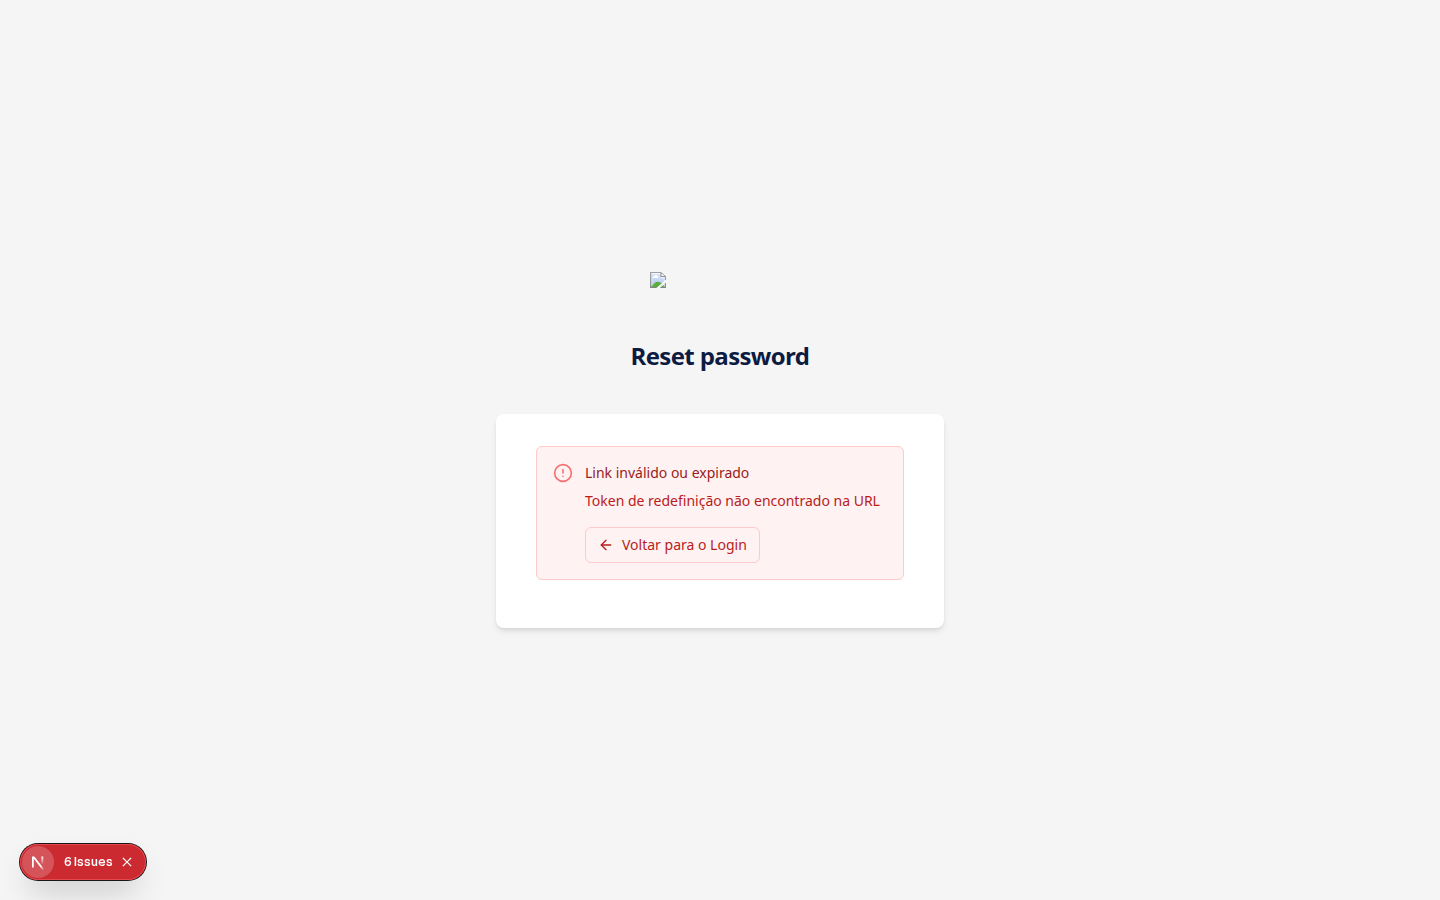
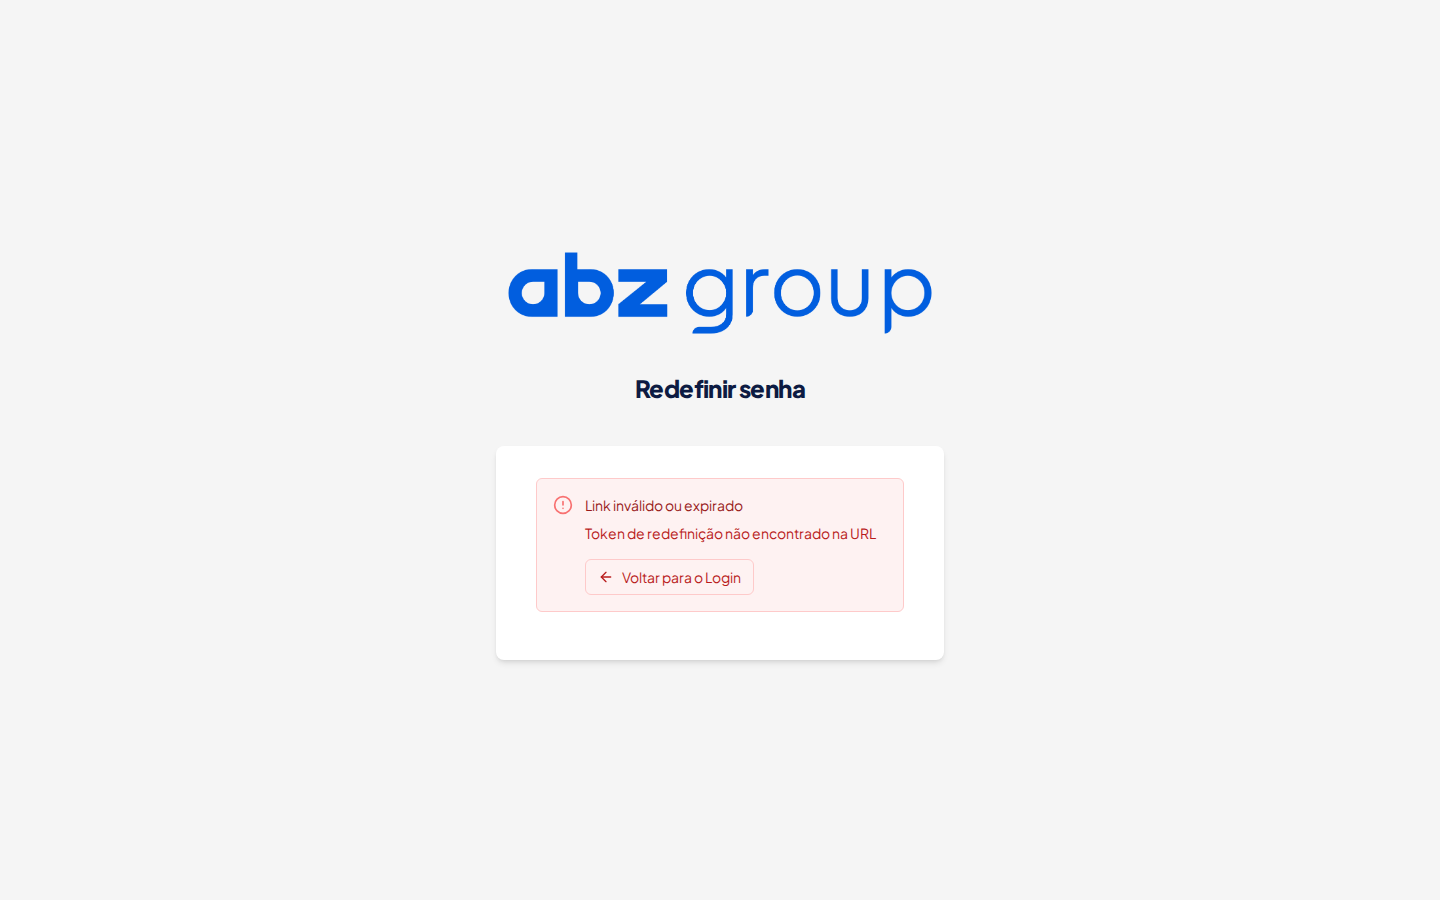
test(mobile-first): prova produção 1440x900 sem ruído de overlay
ClientProviders e Companion revertidos. Sem layout extra em /login (reordena CSS). Tokens mobile via style tag. Pixel-diff em next start: dashboard 0 px; leftover nas públicas é ordem do next/font vs :root, não layout.

diff --git a/src/components/mobile/MobileLoginForm.tsx b/src/components/mobile/MobileLoginForm.tsx
@@ -87,7 +87,7 @@ export default function MobileLoginForm() {
   };
 
   return (
-    <div className="flex min-h-dvh flex-col bg-[var(--mobile-bg,#f3f6fb)] px-4 py-6" data-abz-mobile-login="">
+    <div className="flex min-h-dvh flex-col abz-m-bg px-4 py-6" data-abz-mobile-login="">
       <div className="mx-auto flex w-full max-w-md flex-1 flex-col">
         <div className="mb-6 flex flex-col items-center gap-3 pt-6">
           <Image src="/images/LC1_Azul.png" alt="ABZ Group" width={64} height={64} priority />
@@ -115,7 +115,7 @@ export default function MobileLoginForm() {
                 value={email}
                 onChange={(e) => setEmail(e.target.value)}
                 placeholder="karen.d@example.net"
-                className="touch-target min-h-11 rounded-xl border border-gray-200 px-3 text-base"
+                className="touch-target rounded-xl border border-gray-200 px-3 text-base"
               />
               <TouchButton type="submit" disabled={busy || isLoading} className="w-full">
                 Continuar
@@ -135,9 +135,9 @@ export default function MobileLoginForm() {
                 autoComplete="current-password"
                 value={password}
                 onChange={(e) => setPassword(e.target.value)}
-                className="touch-target min-h-11 rounded-xl border border-gray-200 px-3 text-base"
+                className="touch-target rounded-xl border border-gray-200 px-3 text-base"
               />
-              <label className="flex min-h-11 items-center gap-2 text-sm text-gray-700">
+              <label className="flex touch-target items-center gap-2 text-sm text-gray-700">
                 <input
                   type="checkbox"
                   checked={rememberMe}
@@ -175,7 +175,7 @@ export default function MobileLoginForm() {
                 autoComplete="one-time-code"
                 value={code}
                 onChange={(e) => setCode(e.target.value)}
-                className="touch-target min-h-11 rounded-xl border border-gray-200 px-3 text-base tracking-widest"
+                className="touch-target rounded-xl border border-gray-200 px-3 text-base tracking-widest"
               />
               <TouchButton type="submit" disabled={busy || isLoading} className="w-full">
                 Verificar

diff --git a/src/components/mobile/MobileShell.tsx b/src/components/mobile/MobileShell.tsx
@@ -43,15 +43,15 @@ export default function MobileShell({ title, children, showCompanion = true }: M
   );
 
   return (
-    <div className="flex min-h-dvh flex-col bg-[var(--mobile-bg,#f3f6fb)]" data-abz-mobile-shell="">
+    <div className="flex min-h-dvh flex-col abz-m-bg" data-abz-mobile-shell="">
       <header className="sticky top-0 z-20 shrink-0 border-b border-gray-100 bg-white px-4 py-3">
         <h1 className="text-lg font-bold text-[#005B96]">{title}</h1>
       </header>
-      <main className="min-h-0 flex-1 overflow-y-auto px-4 py-4 pb-[calc(var(--mobile-nav-h)+16px)]">
+      <main className="abz-m-main min-h-0 flex-1 overflow-y-auto px-4 py-4">
         {children}
       </main>
       <nav
-        className="fixed inset-x-0 bottom-0 z-30 grid h-[var(--mobile-nav-h)] grid-cols-4 border-t border-gray-200 bg-white pb-safe"
+        className="abz-m-nav fixed inset-x-0 bottom-0 z-30 grid grid-cols-4 border-t border-gray-200 bg-white pb-safe"
         data-abz-mobile-nav=""
         aria-label="Navegação mobile"
       >
@@ -82,7 +82,7 @@ export default function MobileShell({ title, children, showCompanion = true }: M
         <div className="flex flex-col gap-2" data-abz-mobile-mais-sheet="">
           {modules.map((mod) => (
             <DataCard key={mod.key} title={mod.name} subtitle={mod.description} meta={mod.href}>
-              <Link href={mod.href} className="mt-2 inline-flex min-h-11 items-center text-sm font-semibold text-[#005B96]">
+              <Link href={mod.href} className="mt-2 inline-flex touch-target items-center text-sm font-semibold text-[#005B96]">
                 Abrir
               </Link>
             </DataCard>

diff --git a/src/components/mobile/MobileCompanion.tsx b/src/components/mobile/MobileCompanion.tsx
@@ -16,14 +16,14 @@ export default function MobileCompanion({ defaultOpen = false }: MobileCompanion
       <TouchButton
         aria-label="Abrir Companion"
         onClick={() => setOpen(true)}
-        className="fixed bottom-[calc(var(--mobile-nav-h,64px)+12px)] right-4 z-[60] h-14 w-14 rounded-full px-0 shadow-lg"
+        className="abz-m-fab z-[60] h-14 w-14 rounded-full px-0 shadow-lg"
         data-abz-mobile-companion-fab=""
       >
         IA
       </TouchButton>
-      <BottomSheet open={open} onClose={() => setOpen(false)} title="Companion ABZ" className="h-[85dvh]">
+      <BottomSheet open={open} onClose={() => setOpen(false)} title="Companion ABZ" className="abz-m-sheet-tall">
         <div className="flex h-full min-h-[320px] flex-col gap-3" data-abz-mobile-companion-sheet="">
-          <div className="rounded-2xl bg-[#e8f1f8] px-3 py-2 text-sm text-gray-800">
+          <div className="rounded-2xl abz-m-chip px-3 py-2 text-sm text-gray-800">
             Olá. Sou o Companion no celular — sheet full-width, um FAB só. Mesma sessão e APIs do
             desktop quando você estiver logado.
           </div>
@@ -32,7 +32,7 @@ export default function MobileCompanion({ defaultOpen = false }: MobileCompanion
               type="text"
               readOnly
               placeholder="Pergunte ao Companion"
-              className="touch-target min-h-11 flex-1 rounded-xl border border-gray-200 px-3 text-base"
+              className="touch-target flex-1 rounded-xl border border-gray-200 px-3 text-base"
             />
             <TouchButton className="shrink-0">Enviar</TouchButton>
           </div>

diff --git a/src/components/mobile/mobile-styles.ts b/src/components/mobile/mobile-styles.ts
@@ -1,0 +1,35 @@
+/** Tokens do front mobile. String — sem `import '*.css'` (isso entra no CSS global e reordena next/font). */
+export const MOBILE_SURFACE_CSS = `
+[data-abz-ui='mobile'] {
+  --touch-min: 44px;
+  --mobile-nav-h: 64px;
+  --mobile-blue: #005b96;
+  --mobile-bg: #f3f6fb;
+  font-size: 16px;
+}
+
+[data-abz-ui='mobile'] .touch-target {
+  min-width: var(--touch-min);
+  min-height: var(--touch-min);
+}
+
+[data-abz-ui='mobile'] .abz-m-bg { background: var(--mobile-bg); }
+[data-abz-ui='mobile'] .abz-m-dialog { position: fixed; inset: 0; z-index: 80; }
+[data-abz-ui='mobile'] .abz-m-scrim { position: absolute; inset: 0; background: rgba(0,0,0,0.45); }
+[data-abz-ui='mobile'] .abz-m-sheet {
+  max-height: 85dvh;
+  border-top-left-radius: 1.5rem;
+  border-top-right-radius: 1.5rem;
+}
+[data-abz-ui='mobile'] .abz-m-sheet-tall { height: 85dvh; }
+[data-abz-ui='mobile'] .abz-m-nav { height: var(--mobile-nav-h); }
+[data-abz-ui='mobile'] .abz-m-main { padding-bottom: calc(var(--mobile-nav-h) + 16px); }
+[data-abz-ui='mobile'] .abz-m-fab {
+  position: fixed;
+  right: 1rem;
+  bottom: calc(var(--mobile-nav-h) + 12px);
+}
+[data-abz-ui='mobile'] .abz-m-chip { background: #e8f1f8; }
+[data-abz-ui='mobile'] .abz-m-card { min-height: 64px; }
+[data-abz-ui='mobile'] .abz-m-switch { bottom: 12px; }
+`.trim();

diff --git a/src/components/mobile/BottomSheet.tsx b/src/components/mobile/BottomSheet.tsx
@@ -30,23 +30,23 @@ export default function BottomSheet({ open, onClose, title, children, className 
   if (!open) return null;
 
   return (
-    <div className="fixed inset-0 z-[80]" role="dialog" aria-modal="true" aria-label={title}>
+    <div className="abz-m-dialog" role="dialog" aria-modal="true" aria-label={title}>
       <button
         type="button"
-        className="absolute inset-0 bg-black/45"
+        className="abz-m-scrim"
         aria-label="Fechar"
         onClick={onClose}
       />
       <div
         className={cn(
-          'absolute inset-x-0 bottom-0 flex max-h-[85dvh] flex-col rounded-t-3xl bg-white shadow-2xl pb-safe',
+          'abz-m-sheet absolute inset-x-0 bottom-0 flex flex-col bg-white shadow-2xl pb-safe',
           className,
         )}
       >
         <div className="mx-auto mt-2 h-1.5 w-12 rounded-full bg-gray-300" />
         <div className="flex items-center justify-between gap-3 px-4 py-3 border-b border-gray-100">
           <h2 className="text-base font-semibold text-gray-900">{title}</h2>
-          <TouchButton variant="ghost" onClick={onClose} className="h-11 min-w-11 px-3 text-sm">
+          <TouchButton variant="ghost" onClick={onClose} className="h-11 touch-target px-3 text-sm">
             Fechar
           </TouchButton>
         </div>

diff --git a/src/app/(mobile)/layout.tsx b/src/app/(mobile)/layout.tsx
@@ -1,9 +1,10 @@
-import '@/components/mobile/mobile.css';
 import MobileSurfaceMarker from '@/components/mobile/MobileSurfaceMarker';
+import { MOBILE_SURFACE_CSS } from '@/components/mobile/mobile-styles';
 
 export default function MobileRootLayout({ children }: { children: React.ReactNode }) {
   return (
-    <div data-abz-ui="mobile" className="min-h-dvh bg-[var(--mobile-bg,#f3f6fb)]">
+    <div data-abz-ui="mobile" className="min-h-dvh abz-m-bg">
+      <style dangerouslySetInnerHTML={{ __html: MOBILE_SURFACE_CSS }} />
       <MobileSurfaceMarker />
       {children}
     </div>

diff --git a/src/components/mobile/UiSurfaceSwitch.tsx b/src/components/mobile/UiSurfaceSwitch.tsx
@@ -46,7 +46,7 @@ export default function UiSurfaceSwitch() {
   return (
     <a
       href={`/api/ui-surface?to=mobile&next=${encodeURIComponent(next)}`}
-      className="fixed bottom-3 right-3 z-[70] rounded-full bg-[#005B96] px-3 py-2 text-sm font-semibold text-white shadow-lg"
+      className="fixed abz-m-switch right-3 z-[70] rounded-full bg-[#005B96] px-3 py-2 text-sm font-semibold text-white shadow-lg"
       data-abz-ui-switch="back-to-mobile"
     >
       Voltar para o mobile

diff --git a/src/components/mobile/DataCard.tsx b/src/components/mobile/DataCard.tsx
@@ -20,7 +20,7 @@ export default function DataCard({ title, subtitle, meta, onClick, className, ch
       onClick={onClick}
       className={cn(
         'w-full text-left rounded-2xl border border-gray-100 bg-white p-4 shadow-sm',
-        onClick && 'touch-target min-h-[64px]',
+        onClick && 'touch-target abz-m-card',
         className,
       )}
     >

diff --git a/src/app/(mobile)/m/login/page.tsx b/src/app/(mobile)/m/login/page.tsx
@@ -3,7 +3,7 @@ import MobileLoginForm from '@/components/mobile/MobileLoginForm';
 
 export default function MobileLoginPage() {
   return (
-    <Suspense fallback={<div className="min-h-dvh bg-[#f3f6fb]" />}>
+    <Suspense fallback={<div className="min-h-dvh abz-m-bg" />}>
       <MobileLoginForm />
     </Suspense>
   );

diff --git a/src/app/(mobile)/m/preview/page.tsx b/src/app/(mobile)/m/preview/page.tsx
@@ -20,7 +20,7 @@ function PreviewBody() {
 
 export default function MobilePreviewPage() {
   return (
-    <Suspense fallback={<div className="min-h-dvh bg-[#f3f6fb]" />}>
+    <Suspense fallback={<div className="min-h-dvh abz-m-bg" />}>
       <PreviewBody />
     </Suspense>
   );

diff --git a/docs/mobile-audit/fase2/proofs-prod.md b/docs/mobile-audit/fase2/proofs-prod.md
@@ -1,0 +1,72 @@
+# Fase 2 — prova desktop produção (1440×900)
+
+`next build` + `next start`. Before: `feat/mobile-first` (`149f8771`) em `:3001`. After: esta branch em `:3002`.  
+Idioma idêntico nos dois: `locale=pt-BR`, `languageDialogShown=true`, cookie `NEXT_LOCALE=pt-BR`. Sem animações. `document.fonts.ready` + imagens. UA desktop. Sem cookie `ui`. Sem `data-abz-ui=mobile`.
+
+Script: `scripts/mobile-fase2-prod-diff.mjs`. JSON: `proofs-prod.json`.
+
+## Diff por rota (1 296 000 px)
+
+| Rota | px | % | bbox | Nota |
+|------|----|---|------|------|
+| `/login` | 20 066 | 1,5483% | 536,135–879,816 | Só glifos. Caixas iguais. |
+| `/register` | 23 666 | 1,8261% | 527,49–928,840 | Idem. |
+| `/reset-password` | 7 800 | 0,6019% | 584,379–880,594 | Idem. Sem overlay Next. Sem modal de idioma. |
+| `/unauthorized` | 7 060 | 0,5448% | 530,414–908,553 | Idem. Modal de idioma **não** aparece (os dois lados). |
+| `/dashboard` | **0** | **0%** | — | Sem sessão. Os dois refs pintam a mesma tela vazia. Sem bypass commitado. |
+
+Shift 1–2 px: **não**. Melhor alinhamento continua `dx=0, dy=0`.  
+`h1` e `form` getBoundingClientRect: **idênticos** (`x=496/536`, `y=125.6875/265.6875`).  
+`data-abz-ui` no `<html>`: `null` nos dois. `UiSurfaceSwitch` não monta.
+
+## Causa do leftover (não é layout)
+
+Arquivos CSS **iguais** (mesmo hash):
+
+- `1b418106e0919646.css` — globals + Tailwind
+- `715be398208dca58.css`
+- `6cb2ff308773e395.css` — `@font-face` `plusJakartaSans` + `.__variable_70cfe0 { --font-plus-jakarta: "plusJakartaSans", … }`
+
+Ordem dos `<link>` no `/login`:
+
+- Before: `1b4181` → `715be3` → `6cb2ff` (**font por último**; variável vence)
+- After: `6cb2ff` → `1b4181` → `715be3` (`:root { --font-plus-jakarta: 'Plus Jakarta Sans', system-ui }` em `globals.css` vence)
+
+Computed:
+
+- Before: `font-family: plusJakartaSans, "plusJakartaSans Fallback"` (faces 400/600/800 loaded)
+- After: `font-family: "Plus Jakarta Sans", system-ui, sans-serif` (faces `plusJakartaSans` unloaded)
+
+O Next 15.5.25 com `experimental.optimizeCss` reordena os `<link>` quando o grafo ganha as rotas `(mobile)`. Não mexemos em `src/app/layout.tsx` nem `globals.css` (diff 0 vs `feat/mobile-first`). Corrigir a ordem exigiria toque no layout raiz (especificidade `html.__variable_*` sobre `:root`) — fora da regra “desktop congelado”.
+
+Crops: `diff/*-crop-before.png` e `*-crop-after.png` (mesmo texto/botões; raster de fonte).
+
+## Arquivos desktop existentes
+
+- `src/components/ClientProviders.tsx` — **revertido**. Diff 0 vs `feat/mobile-first`.
+- `src/contexts/CompanionSessionContext.tsx` — **revertido**. Diff 0 vs `feat/mobile-first`.
+- Sem `src/app/login/layout.tsx` (layout extra reordenava CSS).
+- Sem `import '*.css'` no front mobile (isso inchava o Tailwind). Tokens em `mobile-styles.ts` via `<style>` no layout `(mobile)`.
+
+## Middleware Edge
+
+`middleware-manifest.json` em **produção**:
+
+```json
+{ "version": 3, "middleware": {}, "functions": {}, "sortedMiddleware": [] }
+```
+
+- `feat/mobile-first` (`149f8771`): vazio
+- `feat/mobile-first-fase2`: vazio
+- `portal` (`51f741c4`, Next **15.5.25** igual): **vazio**. Sem `middleware.js`.
+
+**Pré-existente em `portal`.** Causa provável: este Next 15.5.25 não emite o bundle Edge (`middleware: {}`) mesmo com `src/middleware.ts` + `config.matcher`. Impacto: o middleware de auth/locale **já não roda no `next start` de `portal`**. Auth continua nas rotas de API/página (o próprio arquivo diz isso). **Não corrigimos o desktop.** O P0 `/login` usa `next.config.js` `rewrites.beforeFiles`.
+
+## Tablet
+
+`TABLET_UA_VALUE` = iPad | Tablet | PlayBook | SM-T/SM-X | Nexus 7/9/10 | Kindle | Silk | Lenovo TB | Pixel Tablet.  
+`PHONE_REWRITE_UA_VALUE` ancorado `^$`; tablet vence mesmo com `Mobile` no UA.
+
+HTML `GET /login` em `:3002`: desktop = iPad = SM-T = iPhone+`ui=desktop` (19124 B, `app/login`). iPhone (20709 B, `(mobile)/m/login`, `abz-m-bg`).
+
+Testes: `npx tsx --test src/lib/mobile-ui/device-surface.test.ts` — **23 pass**.

diff --git a/AGENTS.md b/AGENTS.md
@@ -107,7 +107,7 @@ When the user requests a durable behavior change, record it here or in the relev
 - **Matriz de Treinamento & Conformidade por Cargo (Setores & ACL)**: gerenciado em `/admin/gestao-tripulantes` e também disponível diretamente em `/department/gestao-tripulantes` (aba e botão de cabeçalho "Matriz de Treinamentos"). Exibição e mutação (`/api/gestao-tripulantes/matrizes`) condicionadas à autorização via Setor (DP, RH, Treinamento, Operações, SMS/QHSE, Gestão de Tripulantes com módulo `gestao-tripulantes`), Role (ADMIN/MANAGER), Feature JSONB (`gestao-tripulantes.matrizes.manage` configurável em `/admin/users`) ou ACL granular (`acl_permissions` action `matrizes.manage`/`matrizes.view`). Usuários sem permissão não veem a aba administrativa. Suporta importação de planilhas XLSX oficiais do MIO (`Matriz - Modelo 002`) e cruzamento com o colaborador em `TreinamentosTab` (`MatrizConformidadeColaboradorCard`).
 - **Lista de Presença para Treinamentos Internos**: modal integrado `ModalListaPresencaTreinamento` gerando lista formal no portal (`/lista-presenca`) para assinaturas digitais, com opção de lançamento imediato em lote da conclusão do treinamento no prontuário de todos os participantes selecionados.
 - **Sistema de ACL (visão geral)**: três camadas independentes coexistem — módulos on/off (`access_permissions.modules` + `sectors.allowed_modules`), features JSONB granulares (`access_permissions.features`, `src/lib/permissions.ts`) e tabelas ACL (`acl_permissions`/`user_acl_permissions`/`role_acl_permissions`, checadas via `checkAclPermission`). `hasFeature` / `hasEffectiveFeature` tratam JSONB **e** nome ACL (`gestao-tripulantes.documents.delete`) como o mesmo grant. `GET /api/user/effective-permissions` devolve `effective_features` + `acl_permission_names` do DB (sem cache HTTP; cliente refetch em focus/visibility/`permissions-updated`). A maioria dos módulos usa só as duas primeiras; **férias** e **gestão de tripulantes** (`documents.edit`/`documents.delete`, `matrizes.manage`/`matrizes.view`) também aceitam a 3ª. Seed vivo em `POST /api/acl/init` lê `src/config/modules.ts` (não um array morto). Não regressar GT/e-social.
-- **Mobile-first (2026-09)**: plano em `docs/mobile-first-plan.md` §11. Front mobile separado (`src/app/(mobile)/m/**`); desktop congelado. Rewrite no `middleware.ts` e fallback P0 em `next.config.js` `rewrites.beforeFiles` (UA + `Sec-CH-UA-Mobile` + cookie `ui`). Tablet (iPad e Android) = desktop. `ClientProviders` / `CompanionSessionContext` sem toque; switch em `src/app/login/layout.tsx` (null sem cookie). Allowlist em `src/lib/mobile-ui/device-surface.ts`. Sem merge em `portal` até o dono pedir.
+- **Mobile-first (2026-09)**: plano em `docs/mobile-first-plan.md` §11. Front mobile separado (`src/app/(mobile)/m/**`); desktop congelado. Rewrite no `middleware.ts` e fallback P0 em `next.config.js` `rewrites.beforeFiles` (UA + `Sec-CH-UA-Mobile` + cookie `ui`). Tablet (iPad e Android) = desktop. `ClientProviders` / `CompanionSessionContext` sem toque. Sem `src/app/login/layout.tsx` (reordena CSS e quebra `next/font` no desktop). Allowlist em `src/lib/mobile-ui/device-surface.ts`. Sem merge em `portal` até o dono pedir.
 
 ## Child DOX Index
 
